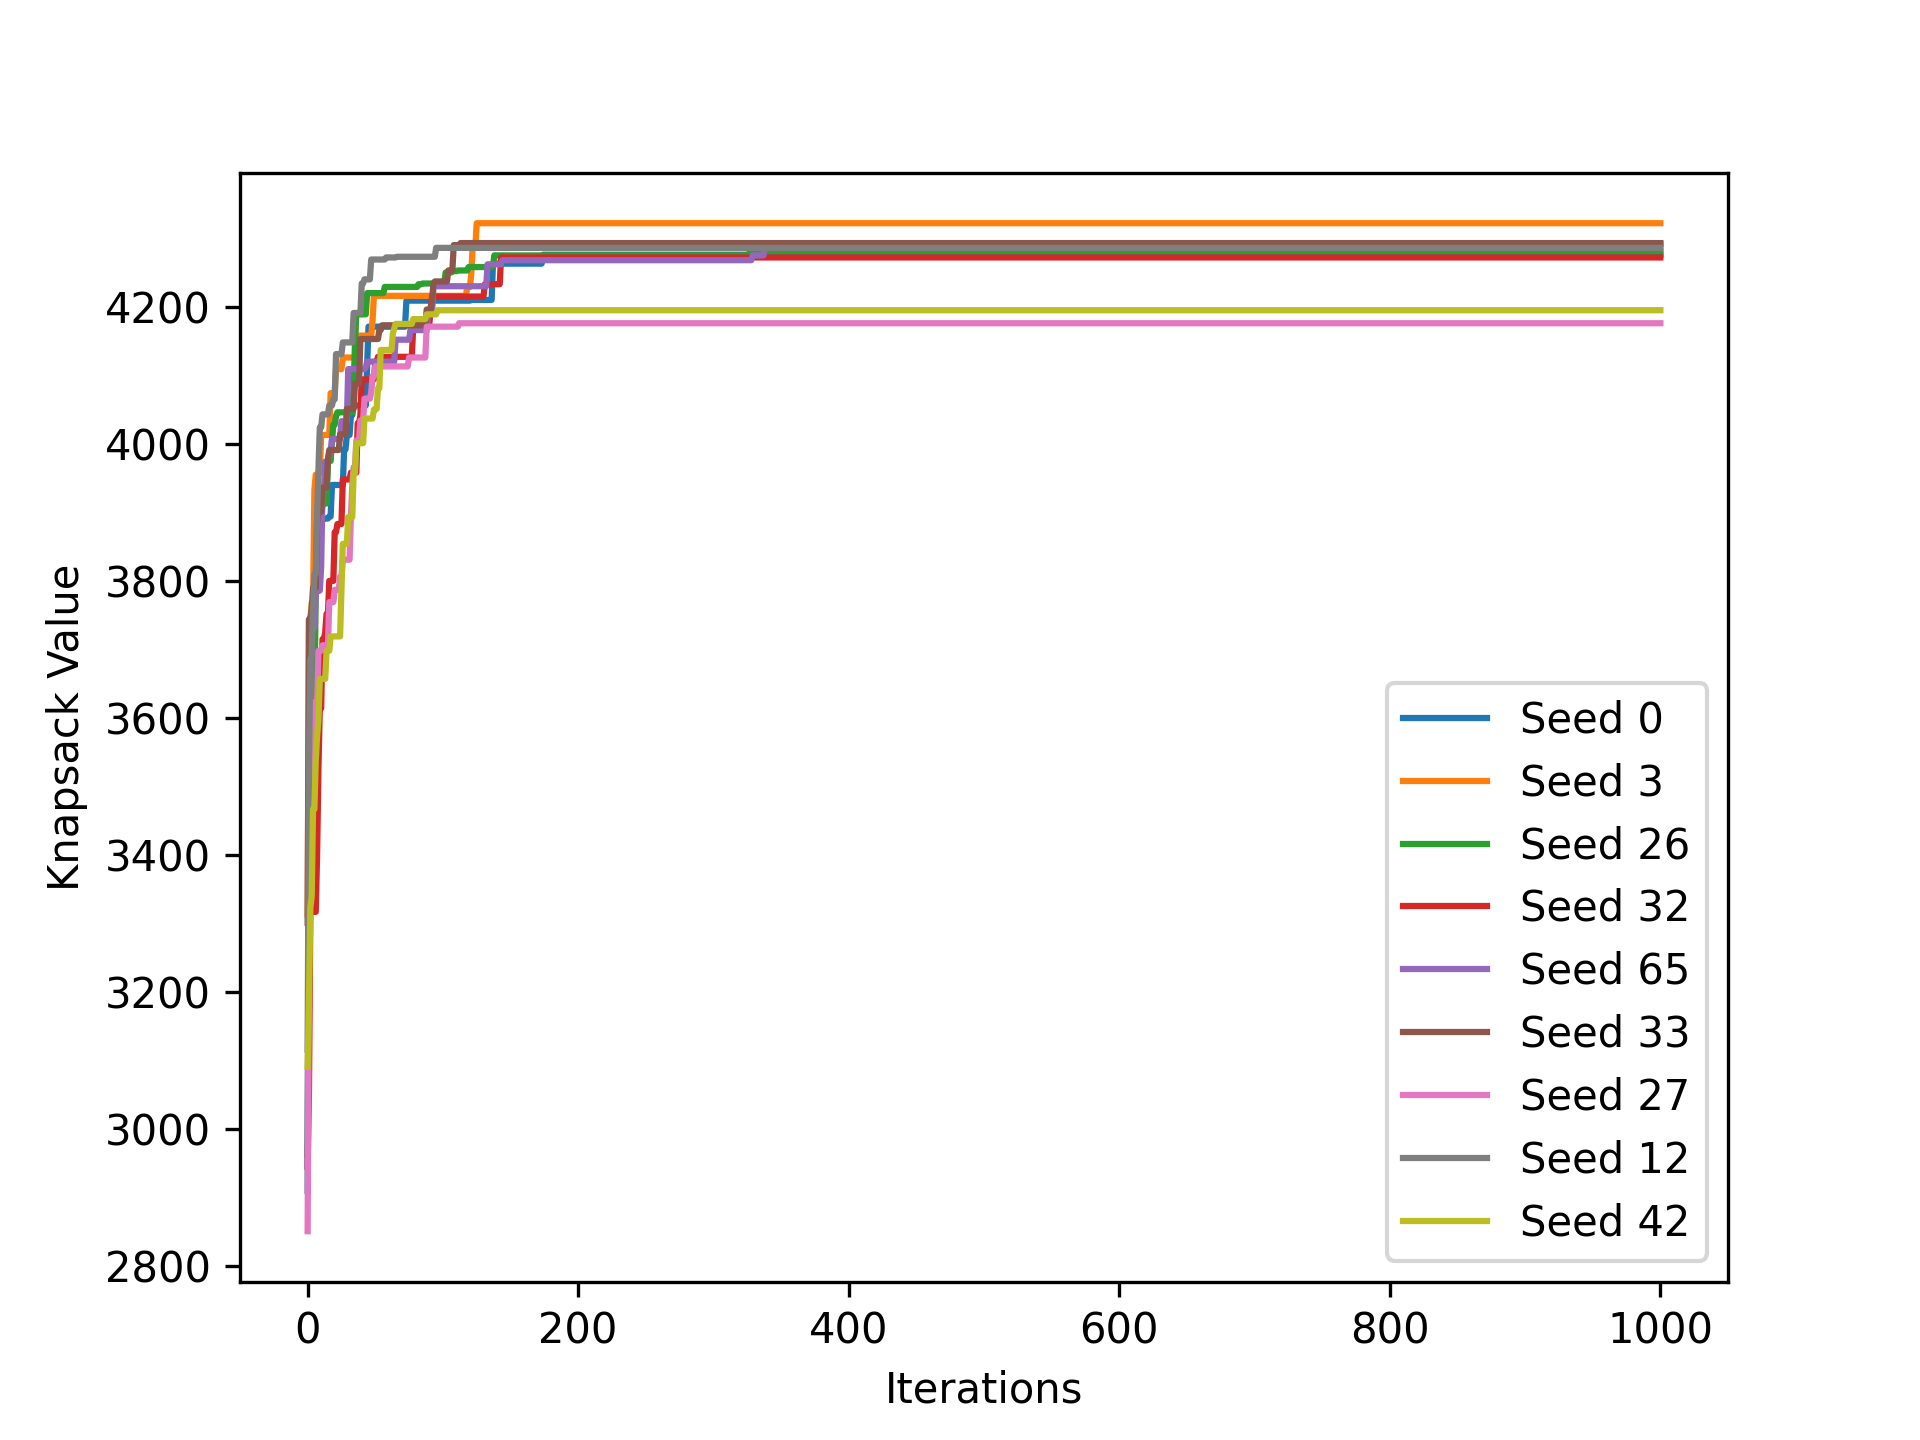
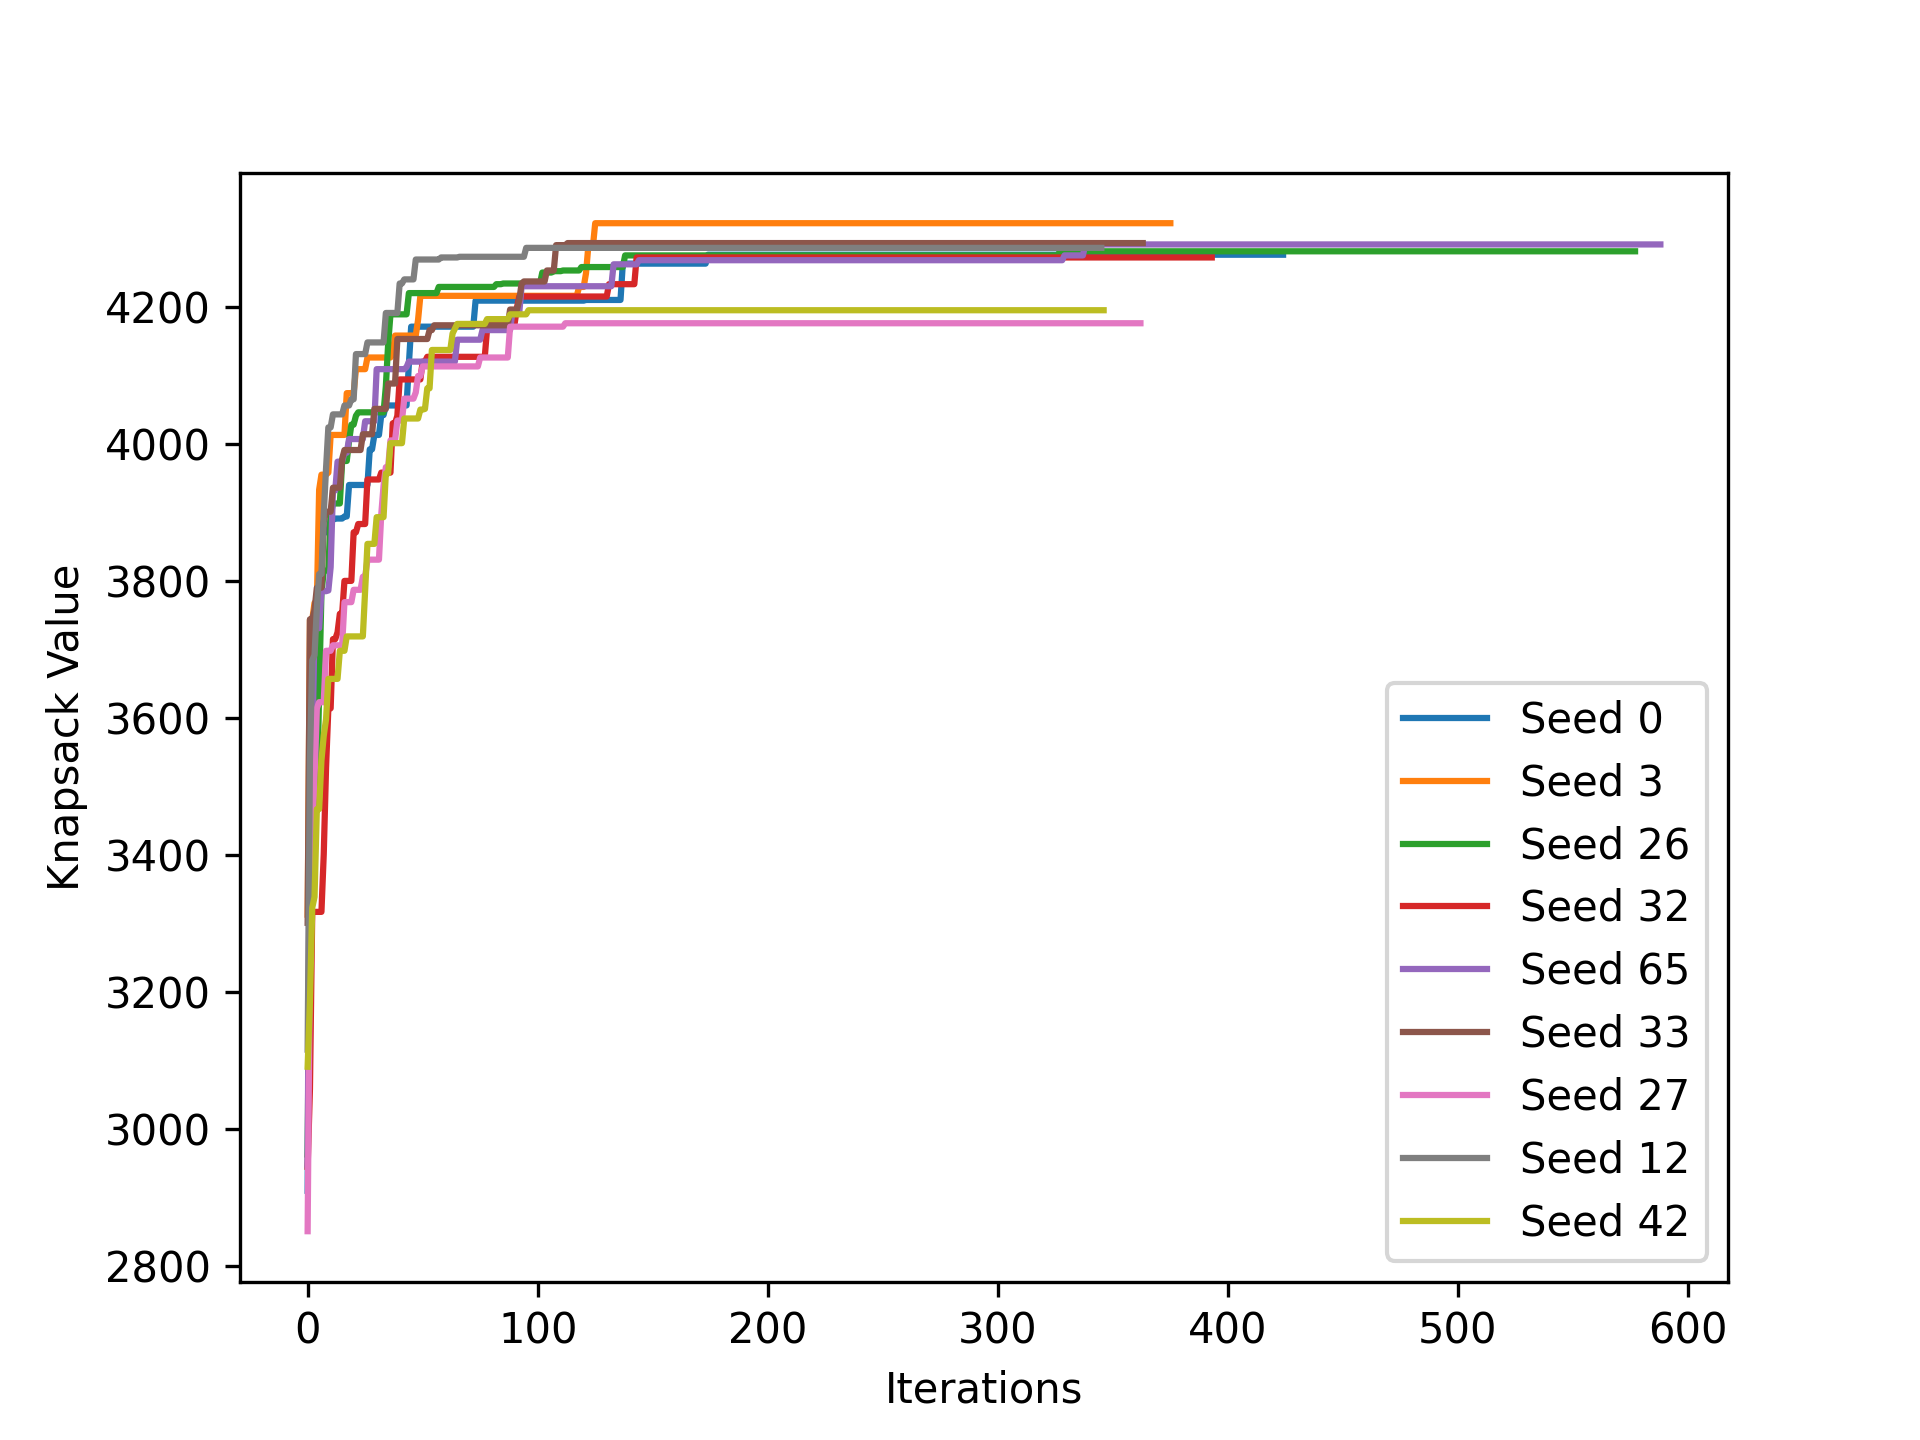
minor updates on knapsack

diff --git a/knapsack/knapsack.py b/knapsack/knapsack.py
@@ -206,7 +206,7 @@ if __name__ == '__main__':
                 cost_history.append(knapsack.value)
 
                 if optimiser == "sahc":
-                    knapsack, item_list = steepest_assent_hill_climb(knapsack, item_list, iter=1000, cutoff=1000)
+                    knapsack, item_list = steepest_assent_hill_climb(knapsack, item_list, iter=1000, cutoff=250)
                 elif optimiser == "sa":
                     knapsack, item_list = simulated_annealing(knapsack, item_list, tmax=1000, tmin=0.001, cooling_rate=0.995)
                 else:
@@ -219,7 +219,7 @@ if __name__ == '__main__':
                 logging.info(f"Total time elapsed: {elapsed_time * 1000} (ms)")
                 plt.plot(cost_history, label=f'Seed {seed}')
                 logging.info(f"Summary: ")
-                print(f"{seed}\t{init}\t{optimiser}\t{elapsed_time}\t{cost_history[0]}\t{knapsack.value}")
+                print(f"{seed}\t{init}\t{optimiser}\t{elapsed_time}\t{len(cost_history)}\t{cost_history[0]}\t{knapsack.value}")
             plt.xlabel('Iterations')
             plt.ylabel('Knapsack Value')
             plt.legend()
